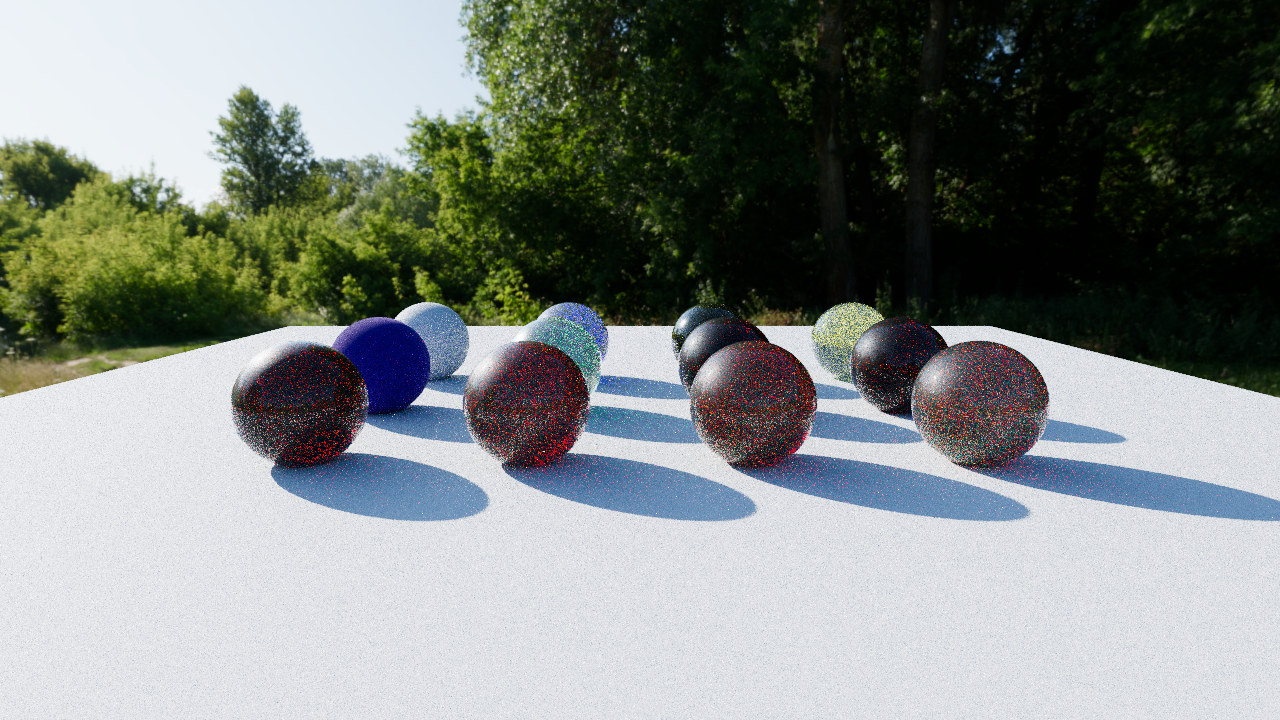
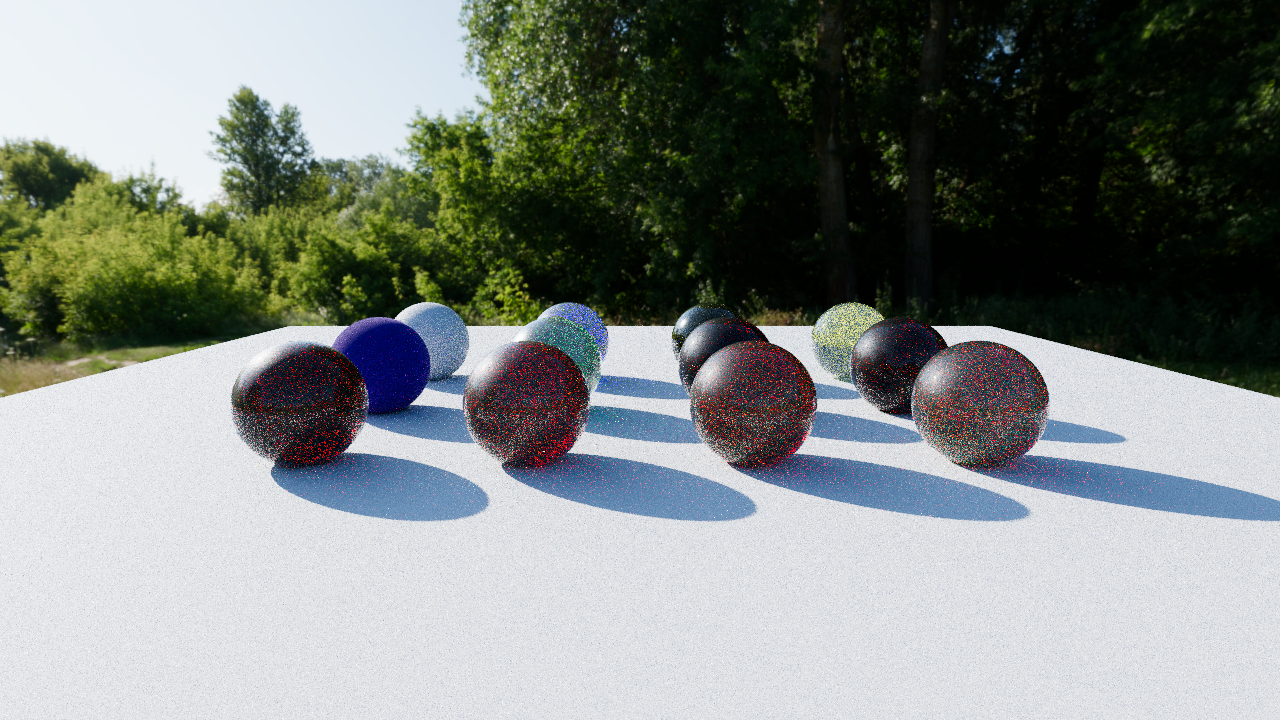
feat: align reference rendering and refresh gallery

Changed region(s): [[0.25, 0.4278, 0.875, 0.7028], [0.2188, 0.6111, 0.3438, 0.7028], [0.3438, 0.6722, 0.375, 0.7028]]

diff --git a/tests/unit/test_bsdf.cpp b/tests/unit/test_bsdf.cpp
@@ -761,13 +761,13 @@ transmissionPdf(float eta, float alphaX, float alphaY, const sm::float3& wo, con
         const float transAlphaX = alphaX;
         const float transAlphaY = alphaY;
         result +=
-            weights.transmissionWeight *
+            baseLayerScale * weights.transmissionWeight *
             evalTransmissionMicrofacet(transColor, mat.transmissionParams.x, eta, transAlphaX, transAlphaY, woL, wiL);
     }
 
     if (weights.diffuseTransWeight > 0.0F && woL.z > 0.0F && wiL.z < 0.0F) {
         const sm::float3 wiR(wiL.x, wiL.y, -wiL.z);
-        result += weights.diffuseTransWeight * evalDiffuse(subsurfaceColor, diffuseRough, woL, wiR);
+        result += baseLayerScale * weights.diffuseTransWeight * evalDiffuse(subsurfaceColor, diffuseRough, woL, wiR);
     }
 
     (void)opacity;
@@ -1017,6 +1017,36 @@ TEST(Bsdf, OpenPbrThinWalledSubsurfaceColorAppliesExactlyOnce) {
     EXPECT_NEAR(e2.x, 2.0F * e1.x, 1.0e-4F * e1.x);
     EXPECT_NEAR(e2.y, 2.0F * e1.y, 1.0e-4F * e1.y);
     EXPECT_NEAR(e2.z, 2.0F * e1.z, 1.0e-4F * e1.z);
+}
+
+TEST(Bsdf, OpenPbrCoatColorAttenuatesTheTransmissionSubstrate) {
+    const sm::float3 wo = sm::normalize(sm::float3(0.20F, 0.10F, 0.97F));
+    const sm::float3 wi = sm::normalize(sm::float3(-0.10F, 0.05F, -0.995F));
+    const sm::float3 N(0.0F, 0.0F, 1.0F);
+    const sm::float3 T(1.0F, 0.0F, 0.0F);
+    const sm::float3 B(0.0F, 1.0F, 0.0F);
+    const sm::float3 tint(0.30F, 0.60F, 0.90F);
+
+    for (const float depth : {0.0F, 0.25F}) {
+        harmonia::GpuMaterial white = makeMaterial();
+        white.transmissionColorWeight = sm::float4(1.0F, 1.0F, 1.0F, 1.0F);
+        white.transmissionParams.x = depth;
+        white.coatColorWeight = sm::float4(1.0F, 1.0F, 1.0F, 1.0F);
+        white.coatRoughAnisoIorDark = sm::float4(0.10F, 0.0F, 1.70F, 0.25F);
+        harmonia::GpuMaterial colored = white;
+        colored.coatColorWeight = sm::float4(tint, 1.0F);
+
+        const sm::float3 reference = evalBSDF(white, wo, wi, N, T, B, N, T, B);
+        const sm::float3 actual = evalBSDF(colored, wo, wi, N, T, B, N, T, B);
+        ASSERT_GT(reference.x, 1.0e-8F) << "depth " << depth;
+        ASSERT_GT(reference.y, 1.0e-8F) << "depth " << depth;
+        ASSERT_GT(reference.z, 1.0e-8F) << "depth " << depth;
+        // Only coat_color changes. Darkening, IOR modulation and the sampling directions are
+        // identical, so the entire transmission substrate must scale by coat_color exactly.
+        EXPECT_NEAR(actual.x / reference.x, tint.x, 1.0e-4F) << "depth " << depth;
+        EXPECT_NEAR(actual.y / reference.y, tint.y, 1.0e-4F) << "depth " << depth;
+        EXPECT_NEAR(actual.z / reference.z, tint.z, 1.0e-4F) << "depth " << depth;
+    }
 }
 
 TEST(Bsdf, OpenPbrDispersionChannelAndFresnelContractsHold) {

diff --git a/src/demo/Application.cpp b/src/demo/Application.cpp
@@ -249,11 +249,11 @@ bool hyperion::Application::buildCamera(const harmonia::scene::SceneLoader::Scen
     return true;
 }
 
-void hyperion::Application::placeBoundCamera(double seconds) {
+void hyperion::Application::placeBoundCamera() {
     if (!m_cameraNodeId || m_scene.attachedScene() == nullptr) {
         return;
     }
-    const auto pose = aether::SceneAnimator::evaluateCamera(*m_scene.attachedScene(), static_cast<float>(seconds));
+    const auto pose = aether::SceneAnimator::cameraPoseFromEvaluated(*m_scene.evaluatedScene());
     if (!pose) {
         return; // hand-built scene without a placement - keep the current view
     }
@@ -300,9 +300,10 @@ void hyperion::Application::record(VkCommandBuffer cmd, const harmonia::app::Ren
     // trip the animation block's accumulation reset (offline would never
     // converge) - that case re-places the camera idempotently instead.
     const harmonia::app::App::AnimationClock clock = animationClock(m_scene.animationFps());
-    if (m_cameraNodeId && clock.key != m_cameraTick) {
+    const bool cameraTick = m_cameraNodeId && clock.key != m_cameraTick;
+    if (cameraTick && !m_scene.hasAnimation()) {
         m_cameraTick = clock.key;
-        placeBoundCamera(clock.seconds);
+        placeBoundCamera(); // a static placement never evaluates the scene
     }
     if (m_scene.hasAnimation() || m_scene.hasSkins() || m_scene.hasMorphs()) {
         if (clock.key != m_lastAnimationTick) {
@@ -310,6 +311,10 @@ void hyperion::Application::record(VkCommandBuffer cmd, const harmonia::app::Ren
             const float seconds = static_cast<float>(clock.seconds);
             if (m_scene.hasAnimation()) {
                 m_scene.setAnimationTime(seconds);
+                if (cameraTick) {
+                    m_cameraTick = clock.key;
+                    placeBoundCamera(); // reads the same evaluated scene; no second evaluation
+                }
             }
             if (m_deformPass.has_value()) {
                 if (const VkResult deformResult = m_deformPass->execute(deviceContext(),

diff --git a/src/hyperion/renderer/PathTracer.cpp b/src/hyperion/renderer/PathTracer.cpp
@@ -6,9 +6,12 @@
 #include "harmonia/core/Logger.hpp"
 #include "harmonia/renderer/Descriptors.hpp"
 #include "harmonia/renderer/Pipeline.hpp"
+#include "harmonia/vulkan_init/PhysicalDevice.hpp"
 #include "hyperion/renderer/ShaderBindingTable.hpp"
 #include "hyperion/scene/Scene.hpp"
 namespace hyperion {
+
+static_assert(sizeof(harmonia::PushConstants) <= harmonia::vulkan_init::kRequiredPushConstantsSize);
 
 // VK_EXT_ray_tracing_invocation_reorder runtime command. Not yet in the SDK volk/headers
 // on all toolchains, so load it dynamically and fall back to a no-op if unavailable.
@@ -127,6 +130,7 @@ void hyperion::PathTracer::pushFrameConstants(VkCommandBuffer cmd,
         .rngSeed = m_config.rngSeed,
         .envLuminanceScale = m_config.envLuminance,
         .lightCount = scene.lightCount(),
+        .analyticLightCount = scene.analyticLightCount(),
         .outputColorSpace = static_cast<std::uint32_t>(m_config.outputColorSpace),
         .samplesPerPixel = m_config.samplesPerPixel,
         .hasEnvMap = m_config.hasEnvMap,

diff --git a/src/demo/Application.hpp b/src/demo/Application.hpp
@@ -78,7 +78,7 @@ class Application final : public harmonia::app::App,
     /// ANI8: re-place m_camera from the bound node's evaluated world at
     /// @p tick (position/target/up + scene-scale clip planes). No-op without
     /// a bound camera node.
-    void placeBoundCamera(double seconds);
+    void placeBoundCamera();
     [[nodiscard]] VkResult setupSceneDescriptors();
     void transitionTargetsOnFirstUse(VkCommandBuffer cmd) noexcept;
 

diff --git a/PLAN.md b/PLAN.md
@@ -16,7 +16,6 @@ specific to Hyperion is open.
 | Limitation | Detail |
 |------------|--------|
 | Specular manifold sampling covers two cases | It is verified for a planar mirror and for closed smooth glass whose interior is a pure absorber. Ordinary path tracing handles everything else: scattering media, dispersion, rough specular surfaces, chains with more than one specular vertex, and receivers that follow a diffuse bounce. Curved casters are not excluded by the code but are not validated by the fixtures. Reservoir reuse does not exist in Hyperion. |
-| Thin lens without an aperture | The ray-generation shader contains a thin-lens model, but the scene camera sets the lens radius to 0. No scene key selects an aperture, so every render is a pinhole image. |
 | Ellipsoid emitters | An emissive analytic sphere with a non-uniform instance scale is skipped by next-event estimation with a warning. |
 | Cross-mode captures agree only up to noise | Two captures of the same animation time made by different routes (an output frame of `--sequence-frames`, and a single capture with `--frame`) use different sample indices, so their pixels differ at noise level. Repeating the same route reproduces the pixels exactly. |
 | Distance haze is a sky-blend model | The in-scattered light of a `[haze]` scene is the environment map blurred to six degrees, the sun disc included. A sun disc with a physical radiance would make everything white in its direction where haze is present. The maps in use have their sun disc clipped, so the model is right for them (Harmonia's `PLAN.md` has the number). |
@@ -45,7 +44,7 @@ adopted.
 
 | Measurement | Value | What it measures |
 |-------------|-------|------------------|
-| Test suites | 79 of 79 pass (v1.0.0) | Unit, module and integration suites of this repository |
+| Test suites | 80 of 80 pass (current working tree) | Unit, module and integration suites of this repository |
 | Parity comparison | 14 of 14 scenes pass: `mean_diff` ≤ 120, Rel-MSE ≤ 250, SSIM ≥ 0.6, luminance-histogram correlation ≥ 0.8 (320×240; Hyperion 256 samples per pixel, Theia 256 frames) | Agreement between Theia and the Hyperion reference under Harmonia's thresholds; these thresholds belong to this budget |
 | Gallery | 30 of 30 PNGs byte-identical when regenerated at 1280×720 with 64 samples per pixel | Reproducibility of a capture and stability of the rendering path |
 | Vulkan validation over the full gallery | 60 of 60 runs without a validation message or application warning | Valid Vulkan usage on every scene |

diff --git a/README.md b/README.md
@@ -151,7 +151,8 @@ Hyperion's classes live in `namespace hyperion`; shared classes live in `namespa
   shaders, dispatched indirectly through `vkCmdTraceRaysIndirect2KHR`.
 - Unidirectional path tracing with configurable bounce depth and sample count, converging
   without bias.
-- Next-event estimation for emissive triangles, emissive analytic spheres and the environment
+- Next-event estimation for emissive triangles, emissive analytic spheres, the environment, and
+  the scene's analytic point, spot, directional and rectangular lights
   map, with multiple importance sampling between environment sampling and BSDF sampling.
 - OpenPBR Surface v1.1.2 through the shared Harmonia BSDF: thin-film iridescence, dispersion,
   coat, fuzz, and subsurface and transmission rendered as a volumetric random walk.
